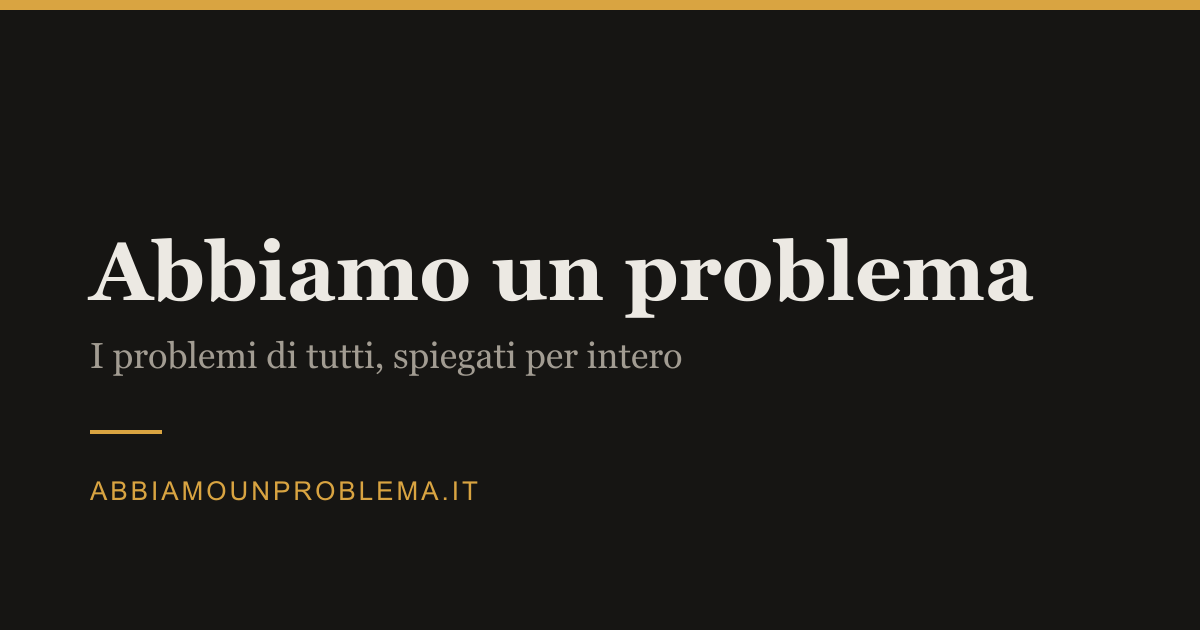
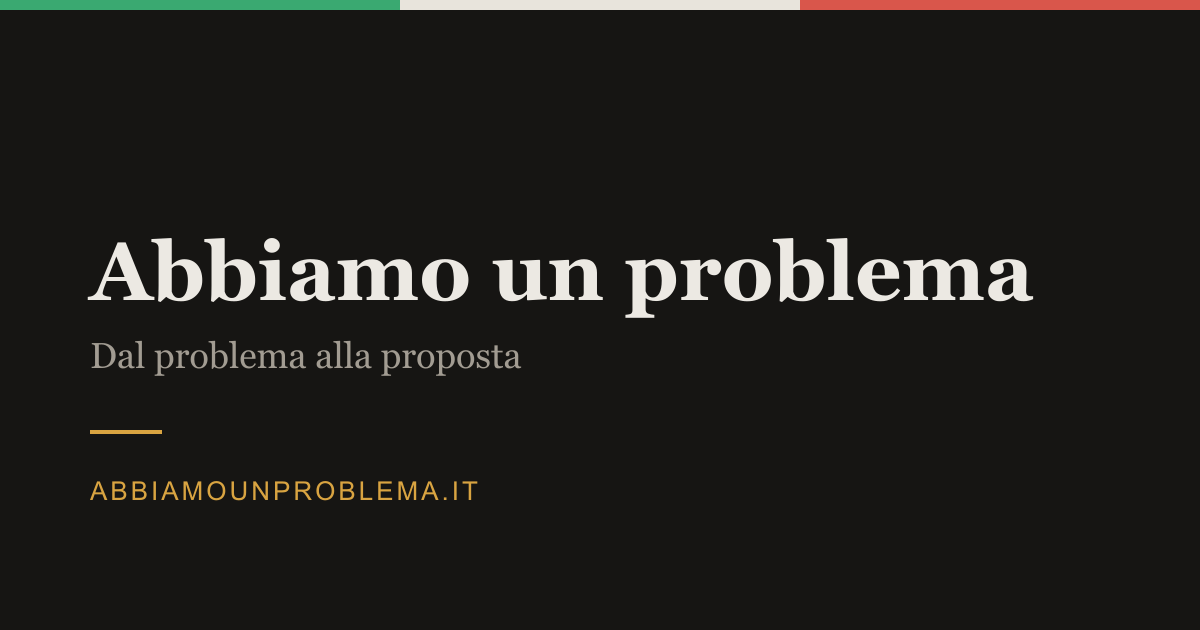
Apertura della homepage con la cartina d'Italia a punti
La cartina non è disegnata a mano libera: nasce da una griglia costruita
su coordinate reali, una riga per fascia di latitudine e una colonna per
fascia di longitudine. Così la diagonale della penisola, il golfo di
Taranto, il Salento, la Sardegna e la Sicilia finiscono al posto giusto,
e la semplificazione resta una scelta grafica invece che un errore.

- Tricolore steso in tre fasce verticali, con variazione di trasparenza
  punto per punto per un effetto spennellato. Il calcolo è deterministico:
  la cartina non cambia da sola a ogni ricompilazione
- La fascia centrale non è bianca ma un grigio caldo: su sfondo chiaro il
  bianco sparirebbe, e alle dimensioni del telefono si perderebbe la sagoma
- La Sicilia è staccata di una casella dalla punta della Calabria, che a
  questa scala risulterebbe altrimenti attaccata al continente
- Aggiunto il primo h1 della homepage, che finora non ne aveva nessuno
- Impaginazione su due colonne, che sul telefono diventa una sola con la
  cartina sopra al testo
- Descrizione del sito aggiornata: citava ancora la tecnologia, che non è
  più tra le categorie
- Immagine di anteprima social rigenerata con il motto attuale e la banda
  tricolore

Changed region(s): [[0.0, 0.0, 1.0, 0.0302], [0.0925, 0.5429, 0.5858, 0.6032]]

diff --git a/src/styles/global.css b/src/styles/global.css
@@ -195,6 +195,80 @@ a:hover {
 	border-color: var(--accento);
 }
 
+/* ---------- Apertura della homepage ---------- */
+
+.apertura {
+	background: var(--sfondo-alt);
+	border-bottom: 1px solid var(--bordo);
+}
+
+.apertura__interno {
+	display: grid;
+	grid-template-columns: minmax(0, 1fr) auto;
+	align-items: center;
+	gap: 3.5rem;
+	padding-block: 3.5rem;
+}
+
+.apertura__titolo {
+	font-family: var(--serif);
+	font-size: clamp(2rem, 5.5vw, 3.1rem);
+	line-height: 1.1;
+	letter-spacing: -0.025em;
+	margin: 0 0 1rem;
+	text-wrap: balance;
+}
+
+.apertura__sommario {
+	margin: 0 0 1.6rem;
+	max-width: 34rem;
+	color: var(--testo-tenue);
+	font-size: 1.1rem;
+	line-height: 1.6;
+}
+
+.apertura__invito {
+	display: inline-block;
+	font-size: 0.95rem;
+	font-weight: 600;
+	text-decoration: none;
+	color: var(--accento);
+	border: 1px solid var(--accento);
+	border-radius: 999px;
+	padding: 0.6rem 1.3rem;
+}
+
+.apertura__invito::after {
+	content: ' →';
+}
+
+.apertura__invito:hover {
+	background: var(--accento);
+	color: #fff;
+}
+
+.apertura__mappa {
+	width: 190px;
+	flex-shrink: 0;
+	color: var(--accento);
+}
+
+/* Su schermo stretto la cartina passa sopra al testo e si rimpicciolisce:
+   resta un segno di identità senza rubare spazio alla lettura. */
+@media (max-width: 48rem) {
+	.apertura__interno {
+		grid-template-columns: 1fr;
+		justify-items: start;
+		gap: 1.75rem;
+		padding-block: 2.5rem;
+	}
+
+	.apertura__mappa {
+		order: -1;
+		width: 92px;
+	}
+}
+
 /* ---------- Elementi ricorrenti ---------- */
 
 .etichetta-categoria {

diff --git a/src/config.ts b/src/config.ts
@@ -13,7 +13,7 @@ export const SITO = {
 
 	/** Usata nella homepage e come meta description di default. 140-160 caratteri. */
 	descrizione:
-		'Analisi e opinioni sui temi che riguardano tutti: economia, società, ambiente, tecnologia. Un problema alla volta, spiegato per intero.',
+		'Analisi e proposte sui problemi che riguardano tutti: economia, finanza personale, società, ambiente ed energia. Un problema alla volta, fino in fondo.',
 
 	/** Sottotitolo mostrato sotto il nome nell'intestazione. */
 	slogan: 'Dal problema alla proposta',
